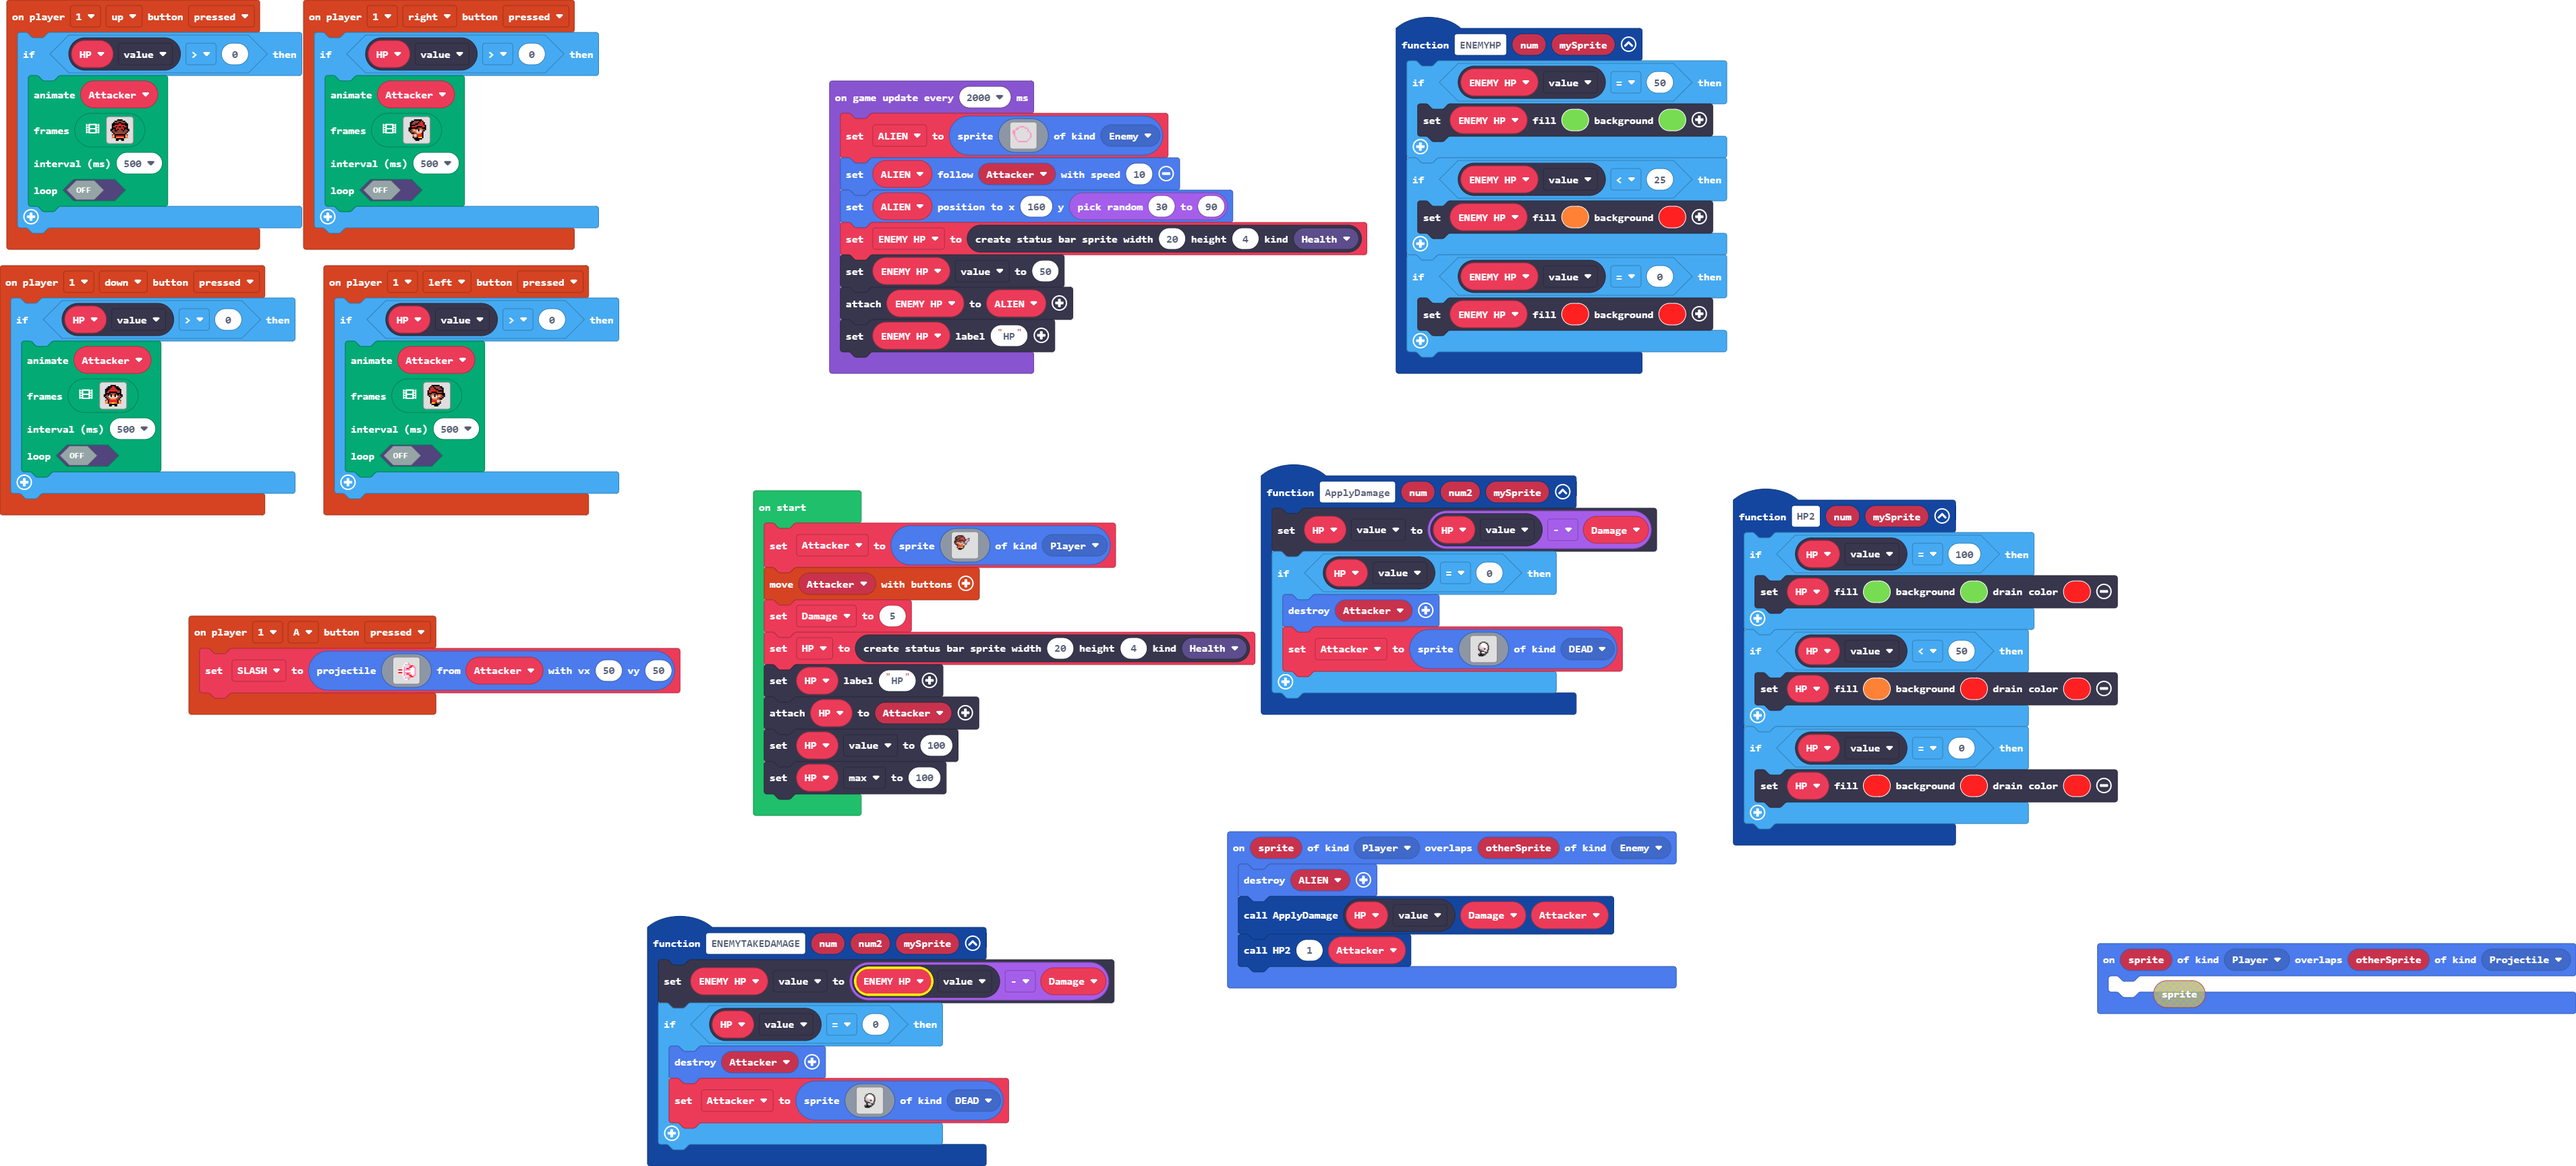
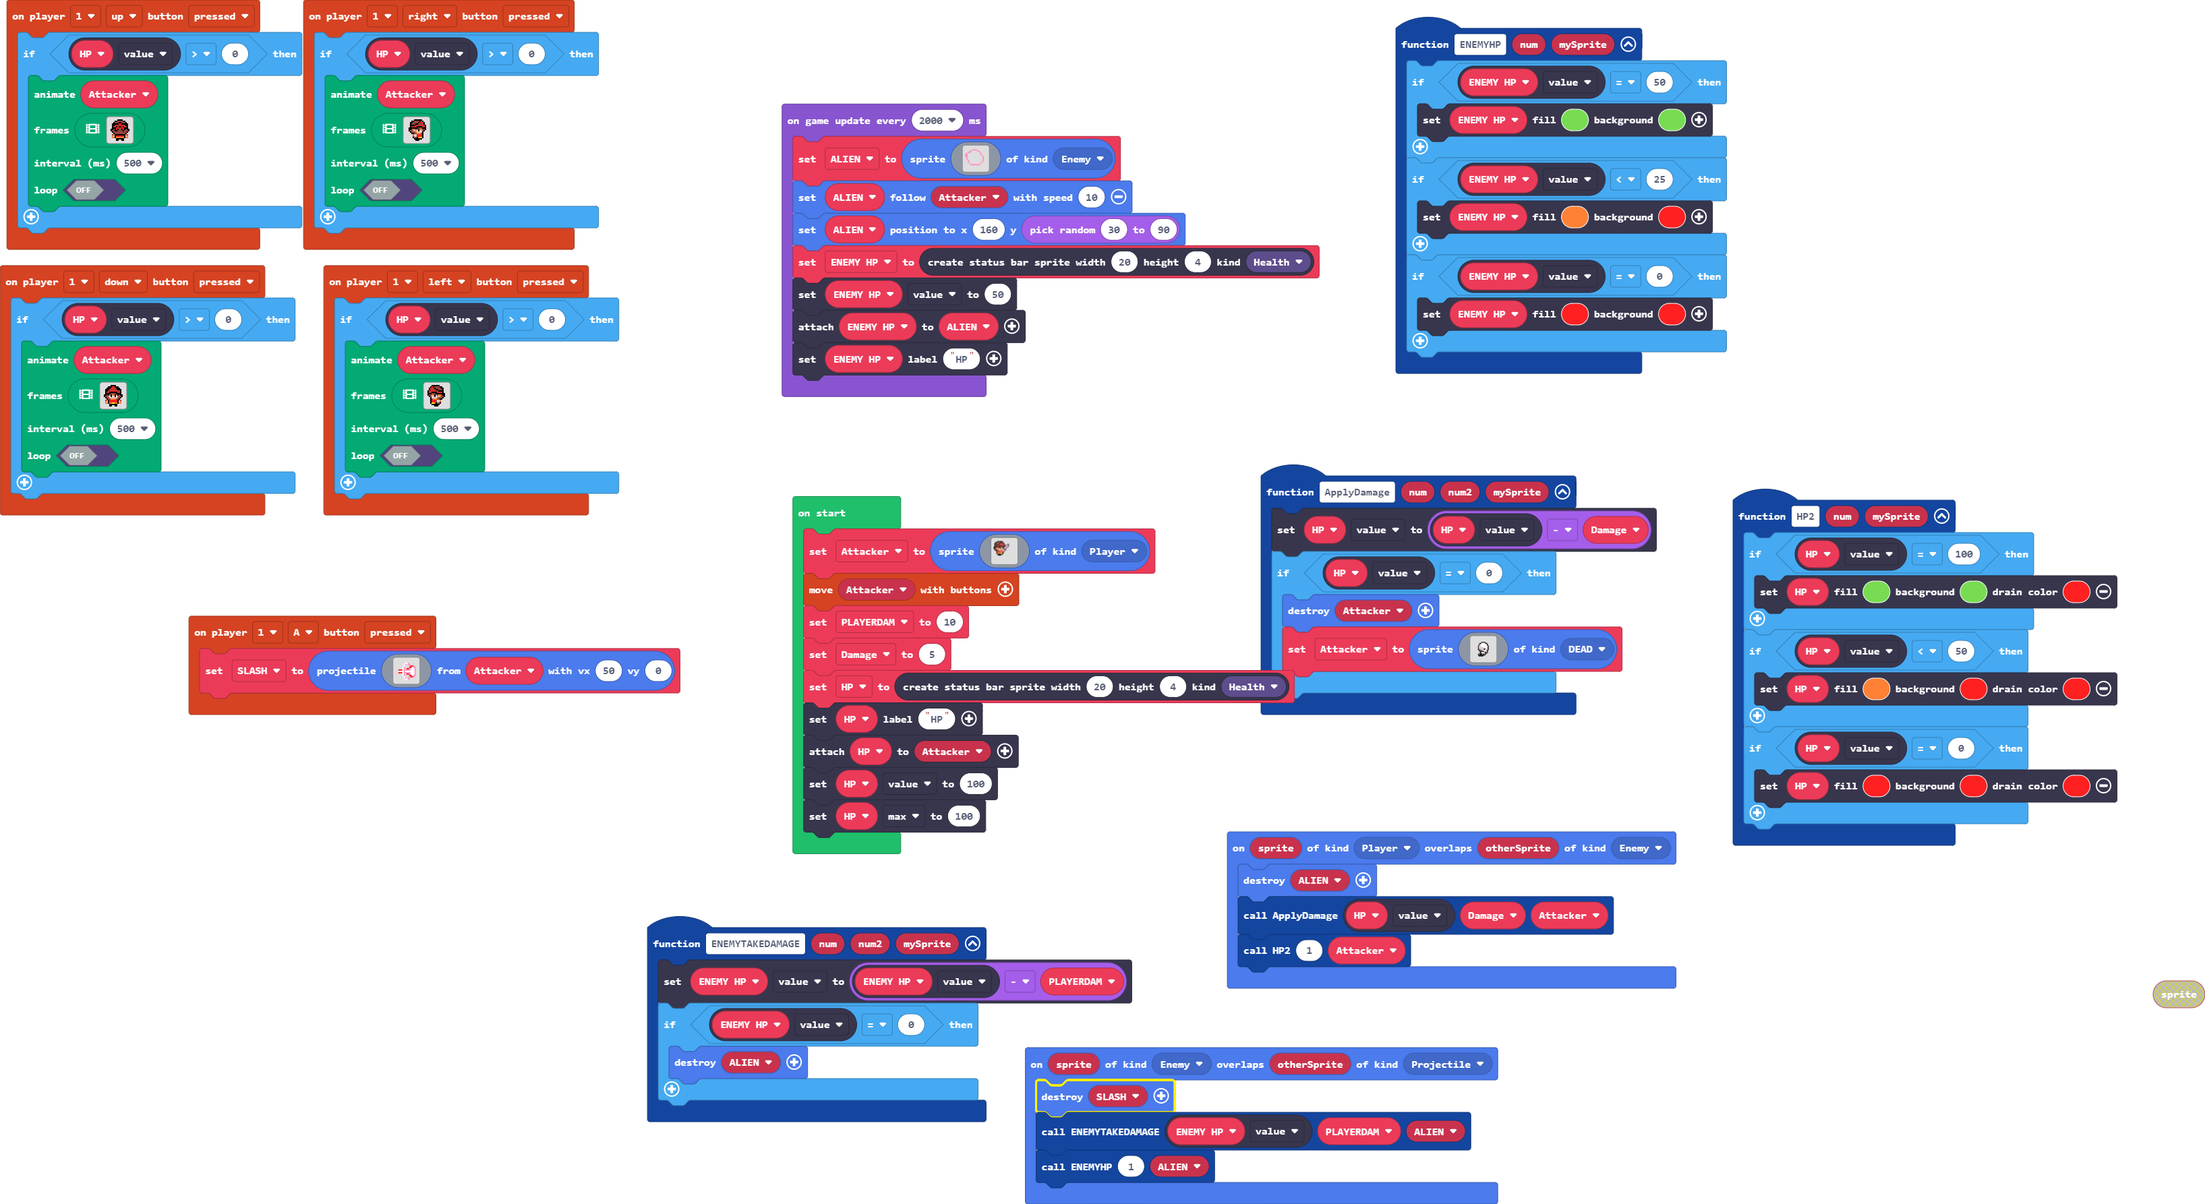
Update main.blocks, main.ts

diff --git a/main.ts b/main.ts
@@ -96,39 +96,15 @@ controller.player1.onButtonEvent(ControllerButton.Up, ControllerButtonEvent.Pres
     }
 })
 function ENEMYTAKEDAMAGE (num: number, num2: number, mySprite: Sprite) {
-    ENEMY_HP.value = ENEMY_HP.value - Damage
-    if (HP.value == 0) {
-        sprites.destroy(Attacker)
-        Attacker = sprites.create(img`
-            ........................
-            ........................
-            ........................
-            ........................
-            ..........ffff..........
-            ........ff1111ff........
-            .......fb111111bf.......
-            .......fd1111111f.......
-            ......fdd1111111df......
-            ......fddd111111df......
-            ......fdddddd111df......
-            ......fbddddbfd1df......
-            ......fcbbbdcfddbf......
-            .......fcbb11111f.......
-            ........fffff1b1f.......
-            ........fb111cfbf.......
-            ........ffb1b1ff........
-            ......f.fffbfbf.........
-            ......ffffffff..........
-            .......fffff............
-            ........................
-            ........................
-            ........................
-            ........................
-            `, SpriteKind.DEAD)
+    ENEMY_HP.value = ENEMY_HP.value - PLAYERDAM
+    if (ENEMY_HP.value == 0) {
+        sprites.destroy(ALIEN)
     }
 }
-sprites.onOverlap(SpriteKind.Player, SpriteKind.Projectile, function (sprite, otherSprite) {
-	
+sprites.onOverlap(SpriteKind.Enemy, SpriteKind.Projectile, function (sprite, otherSprite) {
+    sprites.destroy(SLASH)
+    ENEMYTAKEDAMAGE(ENEMY_HP.value, PLAYERDAM, ALIEN)
+    ENEMYHP(1, ALIEN)
 })
 controller.player1.onButtonEvent(ControllerButton.Right, ControllerButtonEvent.Pressed, function () {
     if (HP.value > 0) {
@@ -226,7 +202,7 @@ controller.player1.onButtonEvent(ControllerButton.A, ControllerButtonEvent.Press
         . . . . . . 1 3 . 3 3 . . . . . 
         . . . . . . . 1 1 3 . . . . . . 
         . . . . . . . . . . . . . . . . 
-        `, Attacker, 50, 50)
+        `, Attacker, 50, 0)
 })
 function HP2 (num: number, mySprite: Sprite) {
     if (HP.value == 100) {
@@ -432,11 +408,12 @@ sprites.onOverlap(SpriteKind.Player, SpriteKind.Enemy, function (sprite, otherSp
     ApplyDamage(HP.value, Damage, Attacker)
     HP2(1, Attacker)
 })
-let ALIEN: Sprite = null
 let SLASH: Sprite = null
+let ALIEN: Sprite = null
 let ENEMY_HP: StatusBarSprite = null
 let HP: StatusBarSprite = null
 let Damage = 0
+let PLAYERDAM = 0
 let Attacker: Sprite = null
 Attacker = sprites.create(img`
     ........................
@@ -465,6 +442,7 @@ Attacker = sprites.create(img`
     ........................
     `, SpriteKind.Player)
 controller.moveSprite(Attacker)
+PLAYERDAM = 10
 Damage = 5
 HP = statusbars.create(20, 4, StatusBarKind.Health)
 HP.setLabel("HP")
